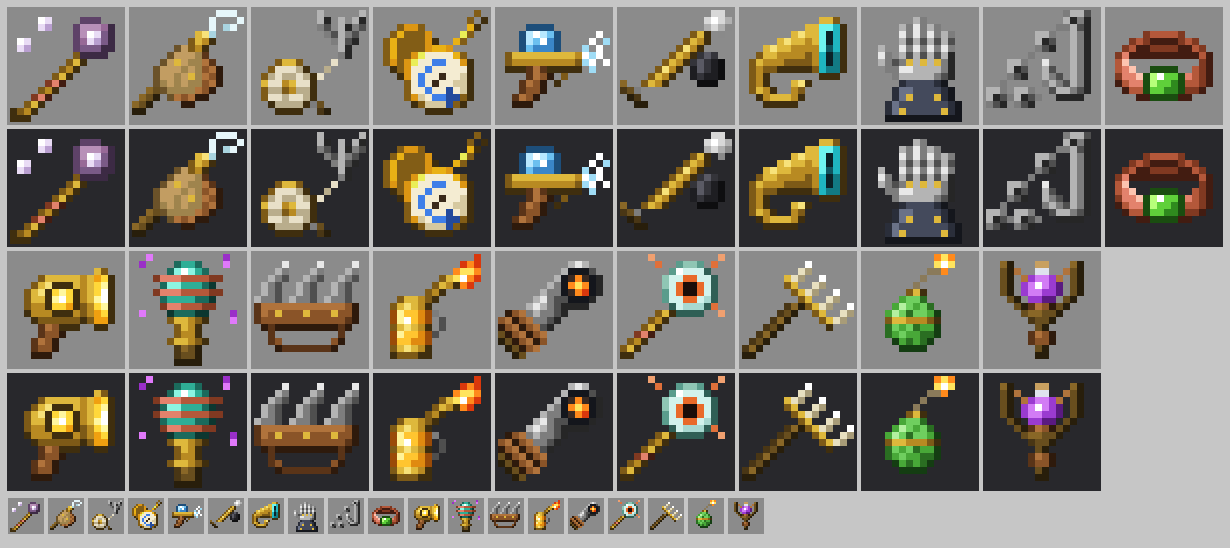
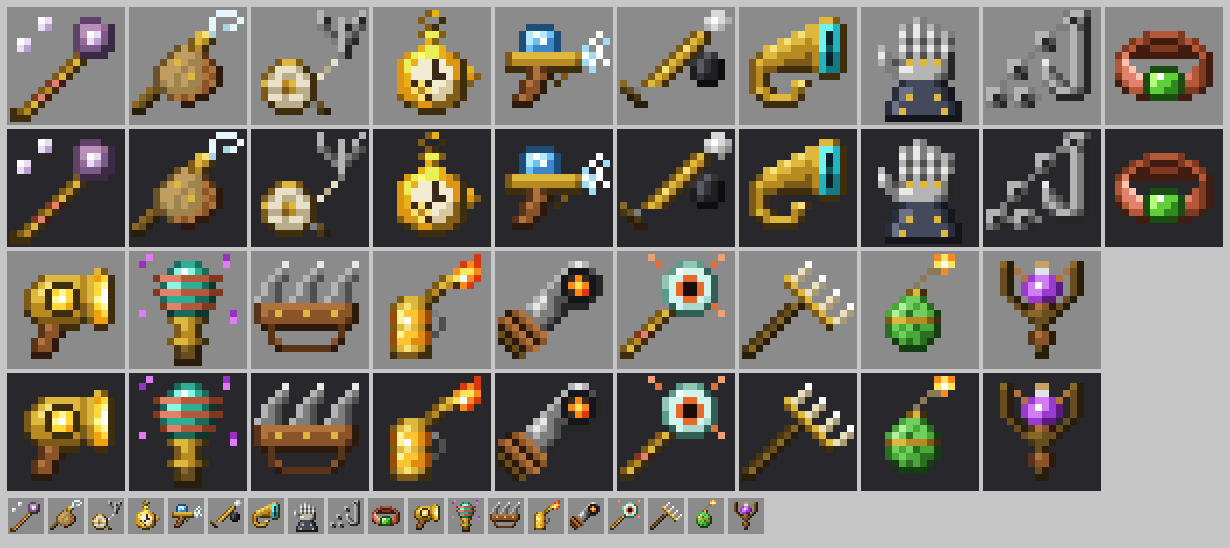
vault sync from vm

Changed region(s): [[0.3089, 0.0, 0.4016, 0.2172], [0.3089, 0.2482, 0.4016, 0.4343], [0.0927, 0.8996, 0.1545, 0.9617]]

diff --git a/Agents/Done/wall-slump.md b/Agents/Done/wall-slump.md
@@ -1,5 +1,5 @@
 ---
-status: in-review
+status: done
 task: Ragdolls knocked into walls slide down and sit against them (not all lying flat)
 branch: claude/project-thread-7ttuy5
 with: Claude (cloud thread "Slump ragdolls against walls")
@@ -37,3 +37,4 @@ PR #1601. Humanoid corpses flung into a wall (or killed beside it) slide down an
 PR #1601 now also: downed players/mobs sit against walls (WallSit, DownedPose WALL), corpse stays sat.
 PR #1601 third commit (Andy: "the view needs to move to the exact height on the model. other players should be able to place them on the wall, and there should be a smooth animation for the 1.5s it takes to get onto the wall"): 1.5 s get-up (roll onto back, sit up, scoot round, shuffle back, lean), carriers set downed folk against a wall (look at it within 3 blocks and let go, or let go of a drag beside one; synced `downed_propped`), first-person view at the model's eyes. Powers compiles; pose sim checked; not played.
 PR #1601 fourth commit (Andy: "I dont see the arms being used in the frames, that's fine if they dont have any or if they are broken, but they should use what they can"): `WallSitArms` plans each arm (top arm pushes off to roll, both prop the sit-up, hands step round during the turn, two pushes back to the wall; broken/missing arms hang, out cold or set down by a carrier both hang) and a two-bone reach puts planted hands on the floor; body schedule now leans back on the hands as far as the wall allows, two-step shuffle. Java arm code run against the Python pose sim (match to 1e-4); Powers compiles; not played. Preview: project-files art-overhaul/wall-slump/wall-sit-arms.png.
+- 2026-11-15 14:20 PR #1601 is merged into master; moved to Agents/Done.

diff --git a/Decisions.md b/Decisions.md
@@ -644,3 +644,4 @@ Andy: "any feature that requires another PR to work as intended should be held a
 - 2026-11-15 (blight and horde picks, PR #1610): Andy approved the lore paragraphs and the readings (witch's cure in her hut cauldron, one per hut; players who die blighted still rise at once; next-night rising is for villagers' bodies). Tissou's groans kept on every zombie.
 
 - 2026-11-15 (tinker-gadget-icons, Claude cloud session): Andy handed the Inbox task tinker-gadget-icons (was for hermes-modeller) to Claude: "Can you take this over?" Applies to PR #1611.
+- 2026-11-15 (tinker-gadget-icons, PR #1611): Andy: "The rewind watch can be more of a steampunk looking regular watch with gold, because that will be required in the recipe." Redrawn as a gold pocket watch with a gear in the dial; no open lid or backwards arrow.
